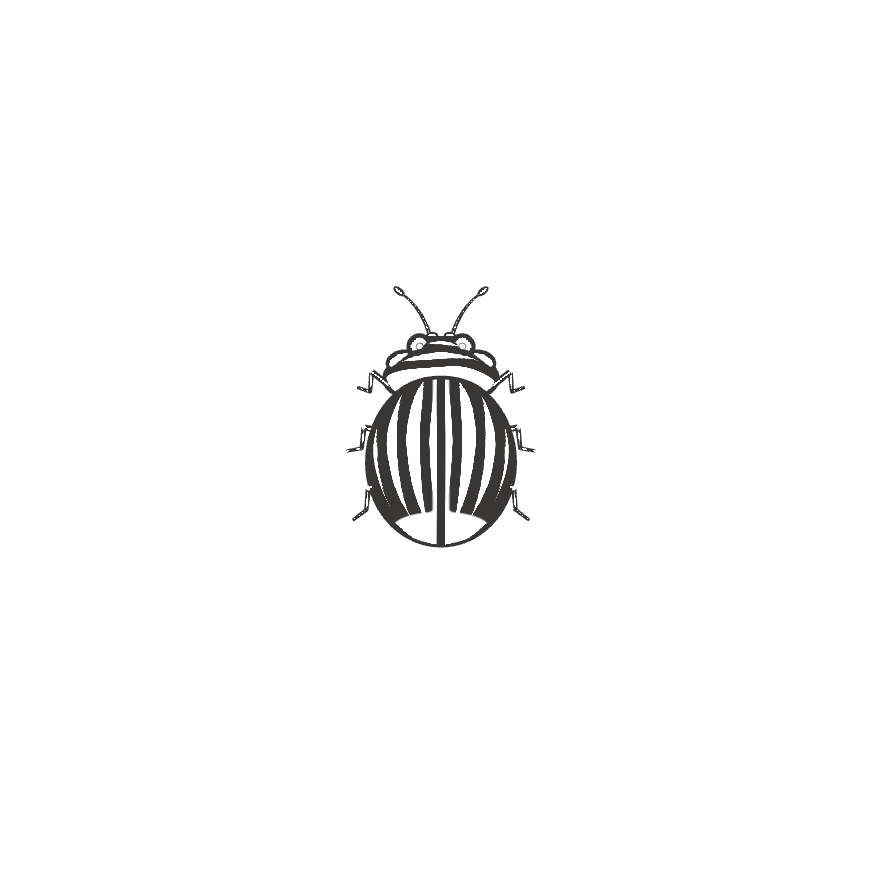
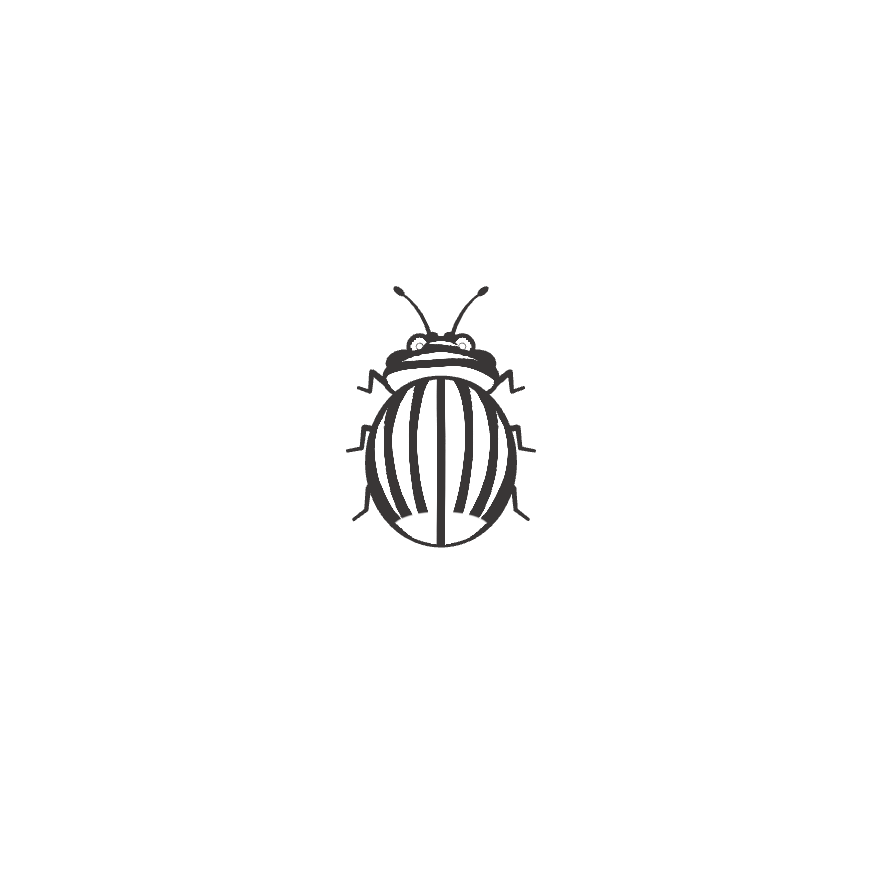
Nyrro closer to the ink-print reference: solid black legs and club feelers, clear stripes with white between them, and in flight the lifted cases stay clear (fewer stripes) instead of turning into a dark mass

Changed region(s): [[0.398, 0.4286, 0.5816, 0.5816], [0.551, 0.398, 0.5816, 0.4286], [0.4286, 0.398, 0.4592, 0.4286]]

diff --git a/components/home/HeroFilm.tsx b/components/home/HeroFilm.tsx
@@ -250,7 +250,7 @@ const SKETCH_FS = `
 varying vec3 vN; varying vec3 vV; varying vec3 vObj; varying float vDepth;
 uniform vec3 ink;
 uniform float fogNear; uniform float fogFar; uniform float time; uniform float px;
-uniform float merid; uniform float rings; uniform float hatchAmt; uniform float weight; uniform float even; uniform float stripes; uniform float objPress; uniform float meridAng; uniform float backLines; uniform float waver; uniform float sketch;
+uniform float merid; uniform float rings; uniform float hatchAmt; uniform float weight; uniform float even; uniform float stripes; uniform float objPress; uniform float meridAng; uniform float backLines; uniform float waver; uniform float sketch; uniform float solid;
 float hash(vec2 p){ p = fract(p * vec2(123.34, 456.21)); p += dot(p, p + 45.32); return fract(p.x * p.y); }
 float noise(vec2 p){
   vec2 i = floor(p); vec2 f = fract(p); vec2 u = f * f * (3.0 - 2.0 * f);
@@ -305,7 +305,7 @@ void main(){
     float tail = mix(1.0, smoothstep(-0.86, -0.5, vObj.z), meridAng);
     // objPress: a clean line, not shaded by the light (shading turns a bunch of lines into a grey patch)
     float lit = mix(0.5 + 0.5 * n, 1.0, max(objPress, even)); // even: one ink, never shaded
-    a = max(a, lineAt(m + jit, mix(1.2 * pressure * px * tail, 1.3 * px, sketch)) * smoothstep(0.03, 0.07, abs(vObj.x)) * lit * stripes * face * inkFlow * mix(smoothstep(0.0, 0.25, tail), smoothstep(0.02, 0.06, tail), sketch)); // sketch: a stripe ends crisply, as an ink stroke does, not in a grey fade
+    a = max(a, lineAt(m + jit, mix(1.2 * pressure * px * tail, 1.1 * px, sketch)) * smoothstep(0.03, 0.07, abs(vObj.x)) * lit * stripes * face * inkFlow * mix(smoothstep(0.0, 0.25, tail), smoothstep(0.02, 0.06, tail), sketch)); // sketch: a stripe ends crisply, as an ink stroke does, not in a grey fade
     a = max(a, lineAt(vObj.x + jit * 0.02, mix(1.6, 1.2, sketch) * px) * stripes * face);
   }
   if (rings > 0.0) a = max(a, lineAt(vObj.z * rings + jit, mix(1.1 * pressure, 1.0, sketch) * px) * mix(0.45 + 0.55 * n, 1.0, max(objPress, even)) * stripes * face * inkFlow);
@@ -324,6 +324,8 @@ void main(){
   a = mix(a, smoothstep(0.05, 0.6, a), sketch); // fine ink, dark where it is drawn
   // a live pen: the ink runs a little lighter and darker along each line (never thicker or thinner)
   // (solid black ink: no lighter patches)
+  // solid: the part is drawn in solid ink (the legs and feelers of the ink beetle)
+  a = max(a, solid);
   // far back in the haze the drawing fades
   a *= 1.0 - smoothstep(fogNear, fogFar, vDepth);
   // nothing is filled: only the ink shows; the paper is left as it is
@@ -352,6 +354,7 @@ function sketchMaterial(shared: SketchU, lines: Lines = {}) {
       backLines: shared.backLines ?? { value: 1 },
       waver: shared.waver ?? { value: 0 },
       sketch: shared.sketch ?? { value: 0 },
+      solid: { value: 0 },
       merid: { value: lines.merid ?? 0 },
       rings: { value: lines.rings ?? 0 },
       hatchAmt: { value: lines.hatch ?? 0 },

diff --git a/components/copilot/beetle3d.ts b/components/copilot/beetle3d.ts
@@ -163,8 +163,10 @@ export async function mountBeetle3D(box: HTMLElement, opts: { size: number; ink:
     if ((o as THREE_NS.Points).isPoints) o.visible = false;
     const m = (o as THREE_NS.Mesh).material as THREE_NS.ShaderMaterial | undefined;
     // few, clear lines, as in the logo: four grooves on each case, four rings on the head and shield, four bands on the belly
-    if (m && m.isShaderMaterial && m.uniforms?.merid?.value === 6) m.uniforms.merid.value = 7; // many bold stripes down each wing case, curving with it
+    if (m && m.isShaderMaterial && m.uniforms?.merid?.value === 6) m.uniforms.merid.value = 6; // bold stripes down each wing case, curving with it, white between them
     // one pen for every line: the outline drawn no heavier than the grooves and rings inside it (no bold edges)
+    // the legs and feelers in solid ink, as in an ink print
+    if (m && m.isShaderMaterial && m.uniforms?.solid && (m.uniforms.weight?.value === 0.9 || m.uniforms.weight?.value === 0.8)) m.uniforms.solid.value = 1;
     if (m && m.isShaderMaterial && m.uniforms?.weight) m.uniforms.weight.value = 0.75; // the outline the same weight as the lines inside it
     if (m && m.isShaderMaterial && m.uniforms?.rings && (m.uniforms.rings.value === 7 || m.uniforms.rings.value === 3)) m.uniforms.rings.value = 2;
   });
@@ -208,7 +210,9 @@ export async function mountBeetle3D(box: HTMLElement, opts: { size: number; ink:
     sk.backLines.value = 1 - 0.85 * open;
     // grooves: straight down the wing covers seen from above; as it rolls onto its side they follow the curve of the shell,
     // so from the side too they are a few simple lines, not loops
-    void p.roll; // the stripes curve with the shell in every view, as the earlier drawing's did // the cases keep their lines in every pose: the body is never an empty outline
+    void p.roll; // the stripes curve with the shell in every view, as the earlier drawing's did
+    // lifted in flight, a case is seen at a slant and its stripes crowd together: it shows fewer, so it stays clear, never a dark mass
+    shellMat.uniforms.merid.value = 6 - 3 * ease(open); // the cases keep their lines in every pose: the body is never an empty outline
     wingPhase += dt * Math.PI * 2 * 3.2 * unfold; // a small beetle beats its wings quicker than the film's slow, close one
     const beat = Math.sin(wingPhase) * unfold;
     b.dustMat.uniforms.open.value = unfold;
